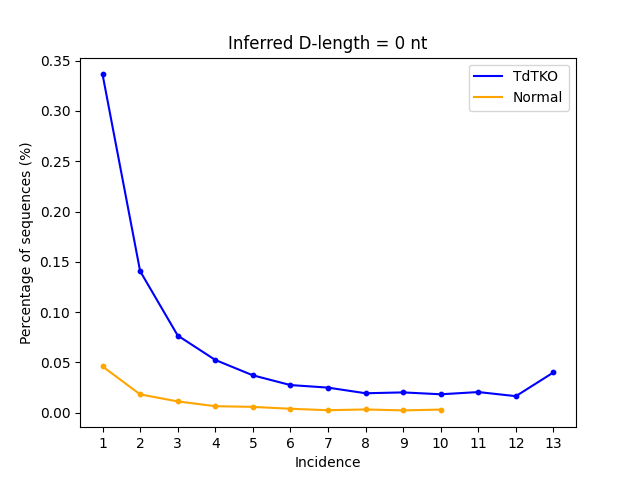
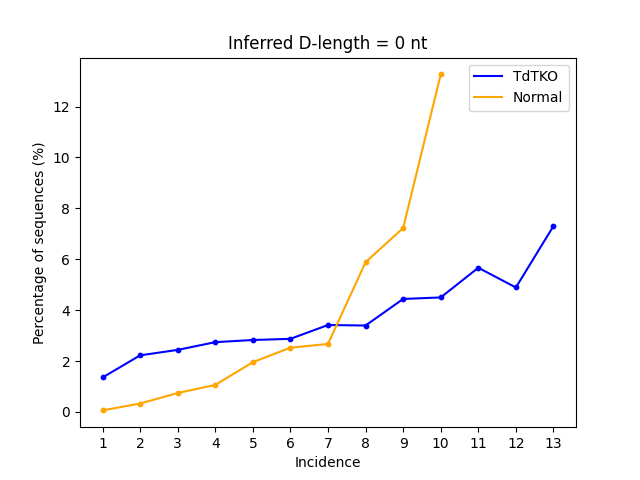
Fixed the incidence plots, First filtered all sequences by incidence, then per incidence group calculate the fraction of sequences that match the expression

diff --git a/code/d_per_incidence.py b/code/d_per_incidence.py
@@ -12,40 +12,28 @@ if __name__ == '__main__':
     x = []
     y = []
 
-    # for file in files:
-    #     x.append([i for i in range(1, mice_per_file[files.index(file)] + 1)])
-    #     seqs, n_rows = get_abundance(file, 'd_length >= 0')
-    #     mean_d_lengths = []
-    #     for i in range(1, mice_per_file[files.index(file)] + 1):
-    #         n_seq_per_incidence = sum(1 for c in seqs.values() if c[0] == i)
-    #         # i is the incidence or number of mice the sequence is found in.
-    #         # Here you get the number of sequences matching the expression per incidence.
-    #         try:
-    #             mean_d = sum(c[1][0] for c in seqs.values() if c[0] == i) / n_seq_per_incidence
-    #             mean_d_lengths.append(mean_d)
-    #         except ZeroDivisionError:
-    #             mean_d = 0
-    #
-    #     y.append(mean_d_lengths)
-    # plot_line_and_scatter_per_incidence(x, y, ['TdTKO', 'Normal'], ['Incidence', 'Inferred D-segment length (nt)'],
-    #                                     'Mean inferred D-length',
-    #                                     'C:\\Users\\gabev\\PycharmProjects\\MRP_TdTKO_mice\\img'
-    #                                     '\\Mean_inferred_D_length_per_incidence.png')
+    for file in files:
+        max_incidence = mice_per_file[files.index(file)]
+        x.append([i for i in range(1, max_incidence + 1)])
+        fract_incidence, seq_per_incidence = get_abundance(file, 'seq[3] >= 0', max_incidence)
+        mean_d_lengths = []
+        for incidence in range(max_incidence):
+            incidence_group = seq_per_incidence[incidence]
+            mean_d_lengths.append(sum(seq[3] for seq in incidence_group) / len(seq_per_incidence[incidence]))
+        y.append(mean_d_lengths)
 
-    # :param exp: str - An expression to check for a specific D length
-    # 'd_length == 0'
+    plot_line_and_scatter_per_incidence(x, y, ['TdTKO', 'Normal'], ['Incidence', 'Inferred D-segment length (nt)'],
+                                        'Mean inferred D-length',
+                                        'C:\\Users\\gabev\\PycharmProjects\\MRP_TdTKO_mice\\img'
+                                        '\\Mean_inferred_D_length_per_incidence.png')
 
     x = []
     y = []
     for file in files:
-        max_incidence = mice_per_file[files.index(file)] + 1
-        x.append([i for i in range(1, max_incidence)])
-        seqs, n_rows = get_abundance(file, max_incidence)
-        incidences = []
-        for i in range(1, mice_per_file[files.index(file)] + 1):
-            n_seq_per_incidence = sum(1 for c in seqs.values() if c[0] == i)
-            incidences.append(n_seq_per_incidence / n_rows * 100)
-        y.append(incidences)
+        max_incidence = mice_per_file[files.index(file)]
+        x.append([i for i in range(1, max_incidence + 1)])
+        fract_incidences = get_abundance(file, 'seq[3] == 0', max_incidence)
+        y.append(fract_incidences)
     plot_line_and_scatter_per_incidence(x, y, ['TdTKO', 'Normal'], ['Incidence', 'Percentage of sequences (%)'],
                                         'Inferred D-length = 0 nt',
                                         'C:\\Users\\gabev\\PycharmProjects\\MRP_TdTKO_mice\\img'
@@ -53,29 +41,26 @@ if __name__ == '__main__':
     x = []
     y = []
     for file in files:
-        x.append([i for i in range(1, mice_per_file[files.index(file)] + 1)])
-        seqs, n_rows = get_abundance(file, 'd_length <= 2')
-        incidences = []
-        for i in range(1, mice_per_file[files.index(file)] + 1):
-            n_seq_per_incidence = sum(1 for c in seqs.values() if c[0] == i)
-            incidences.append(n_seq_per_incidence / n_rows * 100)
-        y.append(incidences)
+        max_incidence = mice_per_file[files.index(file)]
+        x.append([i for i in range(1, max_incidence + 1)])
+        fract_incidences = get_abundance(file, 'seq[3] <= 2', max_incidence)
+        y.append(fract_incidences)
     plot_line_and_scatter_per_incidence(x, y, ['TdTKO', 'Normal'], ['Incidence', 'Percentage of sequences (%)'],
                                         'Inferred D-length <= 2 nt',
                                         'C:\\Users\\gabev\\PycharmProjects\\MRP_TdTKO_mice\\img'
                                         '\\Fraction_max_2nt_D_per_incidence.png')
 
-    data = []
-    for file in files:
-        seqs, n_rows = get_abundance(file, 'd_length >= 0')
-        d_lengths = []
-        for i in range(1, mice_per_file[files.index(file)] + 1):
-            d_lengths.append([c[1][0] for c in seqs.values() if c[0] == i])
-        data.append(d_lengths)
-    plot_boxplot_per_incidence(data, ['TdTKO', 'Normal'],
-                               [[1, 3, 5, 7, 9, 11, 13, 15, 17, 19, 21, 22, 23], [2, 4, 6, 8, 10, 12, 14, 16, 18, 20]],
-                               ['Incidence', 'D length (nt)'],
-                               [1.5, 3.5, 5.5, 7.5, 9.5, 11.5, 13.5, 15.5, 17.5, 19.5, 21, 22, 23],
-                               list(numpy.arange(1, 14)), 'D length per incidence',
-                               'C:\\Users\\gabev\\PycharmProjects\\MRP_TdTKO_mice\\img'
-                               '\\Boxplot_D_length_per_incidence.png')
+    # data = []
+    # for file in files:
+    #     seqs, n_rows = get_abundance(file, 'd_length >= 0')
+    #     d_lengths = []
+    #     for i in range(1, mice_per_file[files.index(file)] + 1):
+    #         d_lengths.append([c[1][0] for c in seqs.values() if c[0] == i])
+    #     data.append(d_lengths)
+    # plot_boxplot_per_incidence(data, ['TdTKO', 'Normal'],
+    #                            [[1, 3, 5, 7, 9, 11, 13, 15, 17, 19, 21, 22, 23], [2, 4, 6, 8, 10, 12, 14, 16, 18, 20]],
+    #                            ['Incidence', 'D length (nt)'],
+    #                            [1.5, 3.5, 5.5, 7.5, 9.5, 11.5, 13.5, 15.5, 17.5, 19.5, 21, 22, 23],
+    #                            list(numpy.arange(1, 14)), 'D length per incidence',
+    #                            'C:\\Users\\gabev\\PycharmProjects\\MRP_TdTKO_mice\\img'
+    #                            '\\Boxplot_D_length_per_incidence.png')

diff --git a/code/abundance_sequences.py b/code/abundance_sequences.py
@@ -2,35 +2,57 @@ import csv
 from plots import plot_line_and_scatter_per_incidence
 
 
-def get_abundance(filename: str):
-    """
-    :param filename: str - The name of the file with sequences
+def get_abundance(filename: str, exp: str, max_incidence: int):
+    """This function reads a file with CDR3 sequences of mice annotated with V and J identifiers,
+    (inferred) D sequence, as well as mouse identifier and (inferred) insertions. It stores the incidence of the
+    sequences, then sorts them by incidence, and finally calculates the fraction of sequences per incidence group that
+    match a given expression.
 
-    :return:
+    :param filename: str - The name of the file with sequences
+    :param exp: str - An expression to check for a specific D length. Write in format 'seq[3] == 0'
+    :param max_incidence: int - The number of mice present in the file. If a sequence is present in all mice, this is
+    the maximum incidence.
+    :returns:
+    :return fractions: list - A list with the fractions of sequences that match an expression per incidence.
+    :return incidences: list - A list with lists of sequence information per incidence
     """
     sequences = {
-        # sequence: [count, [d_lengths], [mice], [VJ distances], [insertions]]
+        # V_identifier + sequence J_identifier: [count, sequence, [mice], d_length, VJ distance, insertions]
     }
     with open(filename, 'r') as file:
         reader = csv.reader(file, delimiter='\t')
         header = next(reader)
         for line in reader:
-            mouse, sequence, d_length, v, j, pheno, vj_dis, ins = line[header.index('mouse')], \
+            mouse, sequence, d_length, v, j, vj_dis, ins = line[header.index('mouse')], \
                 line[header.index('Junction.nucleotide.sequence')], int(line[header.index('D.length.used')]), \
-                line[header.index('V.gene')], line[header.index('J.gene')], line[header.index('phenotype')], \
+                line[header.index('V.gene')], line[header.index('J.gene')], \
                 int(line[header.index('V.J.distance')]), int(line[header.index('insertion.length')])
             try:
                 if mouse in sequences[v + sequence + j][2]:
-                    print('This sequence from this mouse is already in the dictionary')
+                    raise ValueError('ValueError\nThis sequence from this mouse is already in the dictionary')
+                elif d_length != sequences[v + sequence + j][3]:
+                    raise ValueError('ValueError\nThe same sequence has a different D length')
+                elif vj_dis != sequences[v + sequence + j][4]:
+                    raise ValueError('ValueError\nThe same sequence has a different VJ distance')
+                elif ins != sequences[v + sequence + j][5]:
+                    raise ValueError('ValueError\nThe same sequence has a different insertion length')
                 else:
                     sequences[v + sequence + j][0] += 1
-                    sequences[v + sequence + j][1].append(d_length)
                     sequences[v + sequence + j][2].append(mouse)
-                    sequences[v + sequence + j][3].append(vj_dis)
-                    sequences[v + sequence + j][4].append(ins)
             except KeyError:
-                sequences.update({v + sequence + j: [1, [d_length], [mouse], [vj_dis], [ins]]})
+                sequences.update({v + sequence + j: [1, sequence, [mouse], d_length, vj_dis, ins]})
 
+    fractions = []
+    incidences = []
+    for i in range(1, max_incidence + 1):
+        # i is the incidence or number of mice the sequence is found in.
+        tmp_list = [c for c in sequences.values() if c[0] == i]
+        # Make a list per group of incidence
+        incidences.append(tmp_list)
 
-    return
+        n_seq_per_incidence = sum(1 for seq in tmp_list if eval(exp))
+        # How many sequences in each incidence group match the expression
+        n_rows = len(tmp_list)
+        fractions.append(n_seq_per_incidence / n_rows * 100)
+    return fractions, incidences
 
